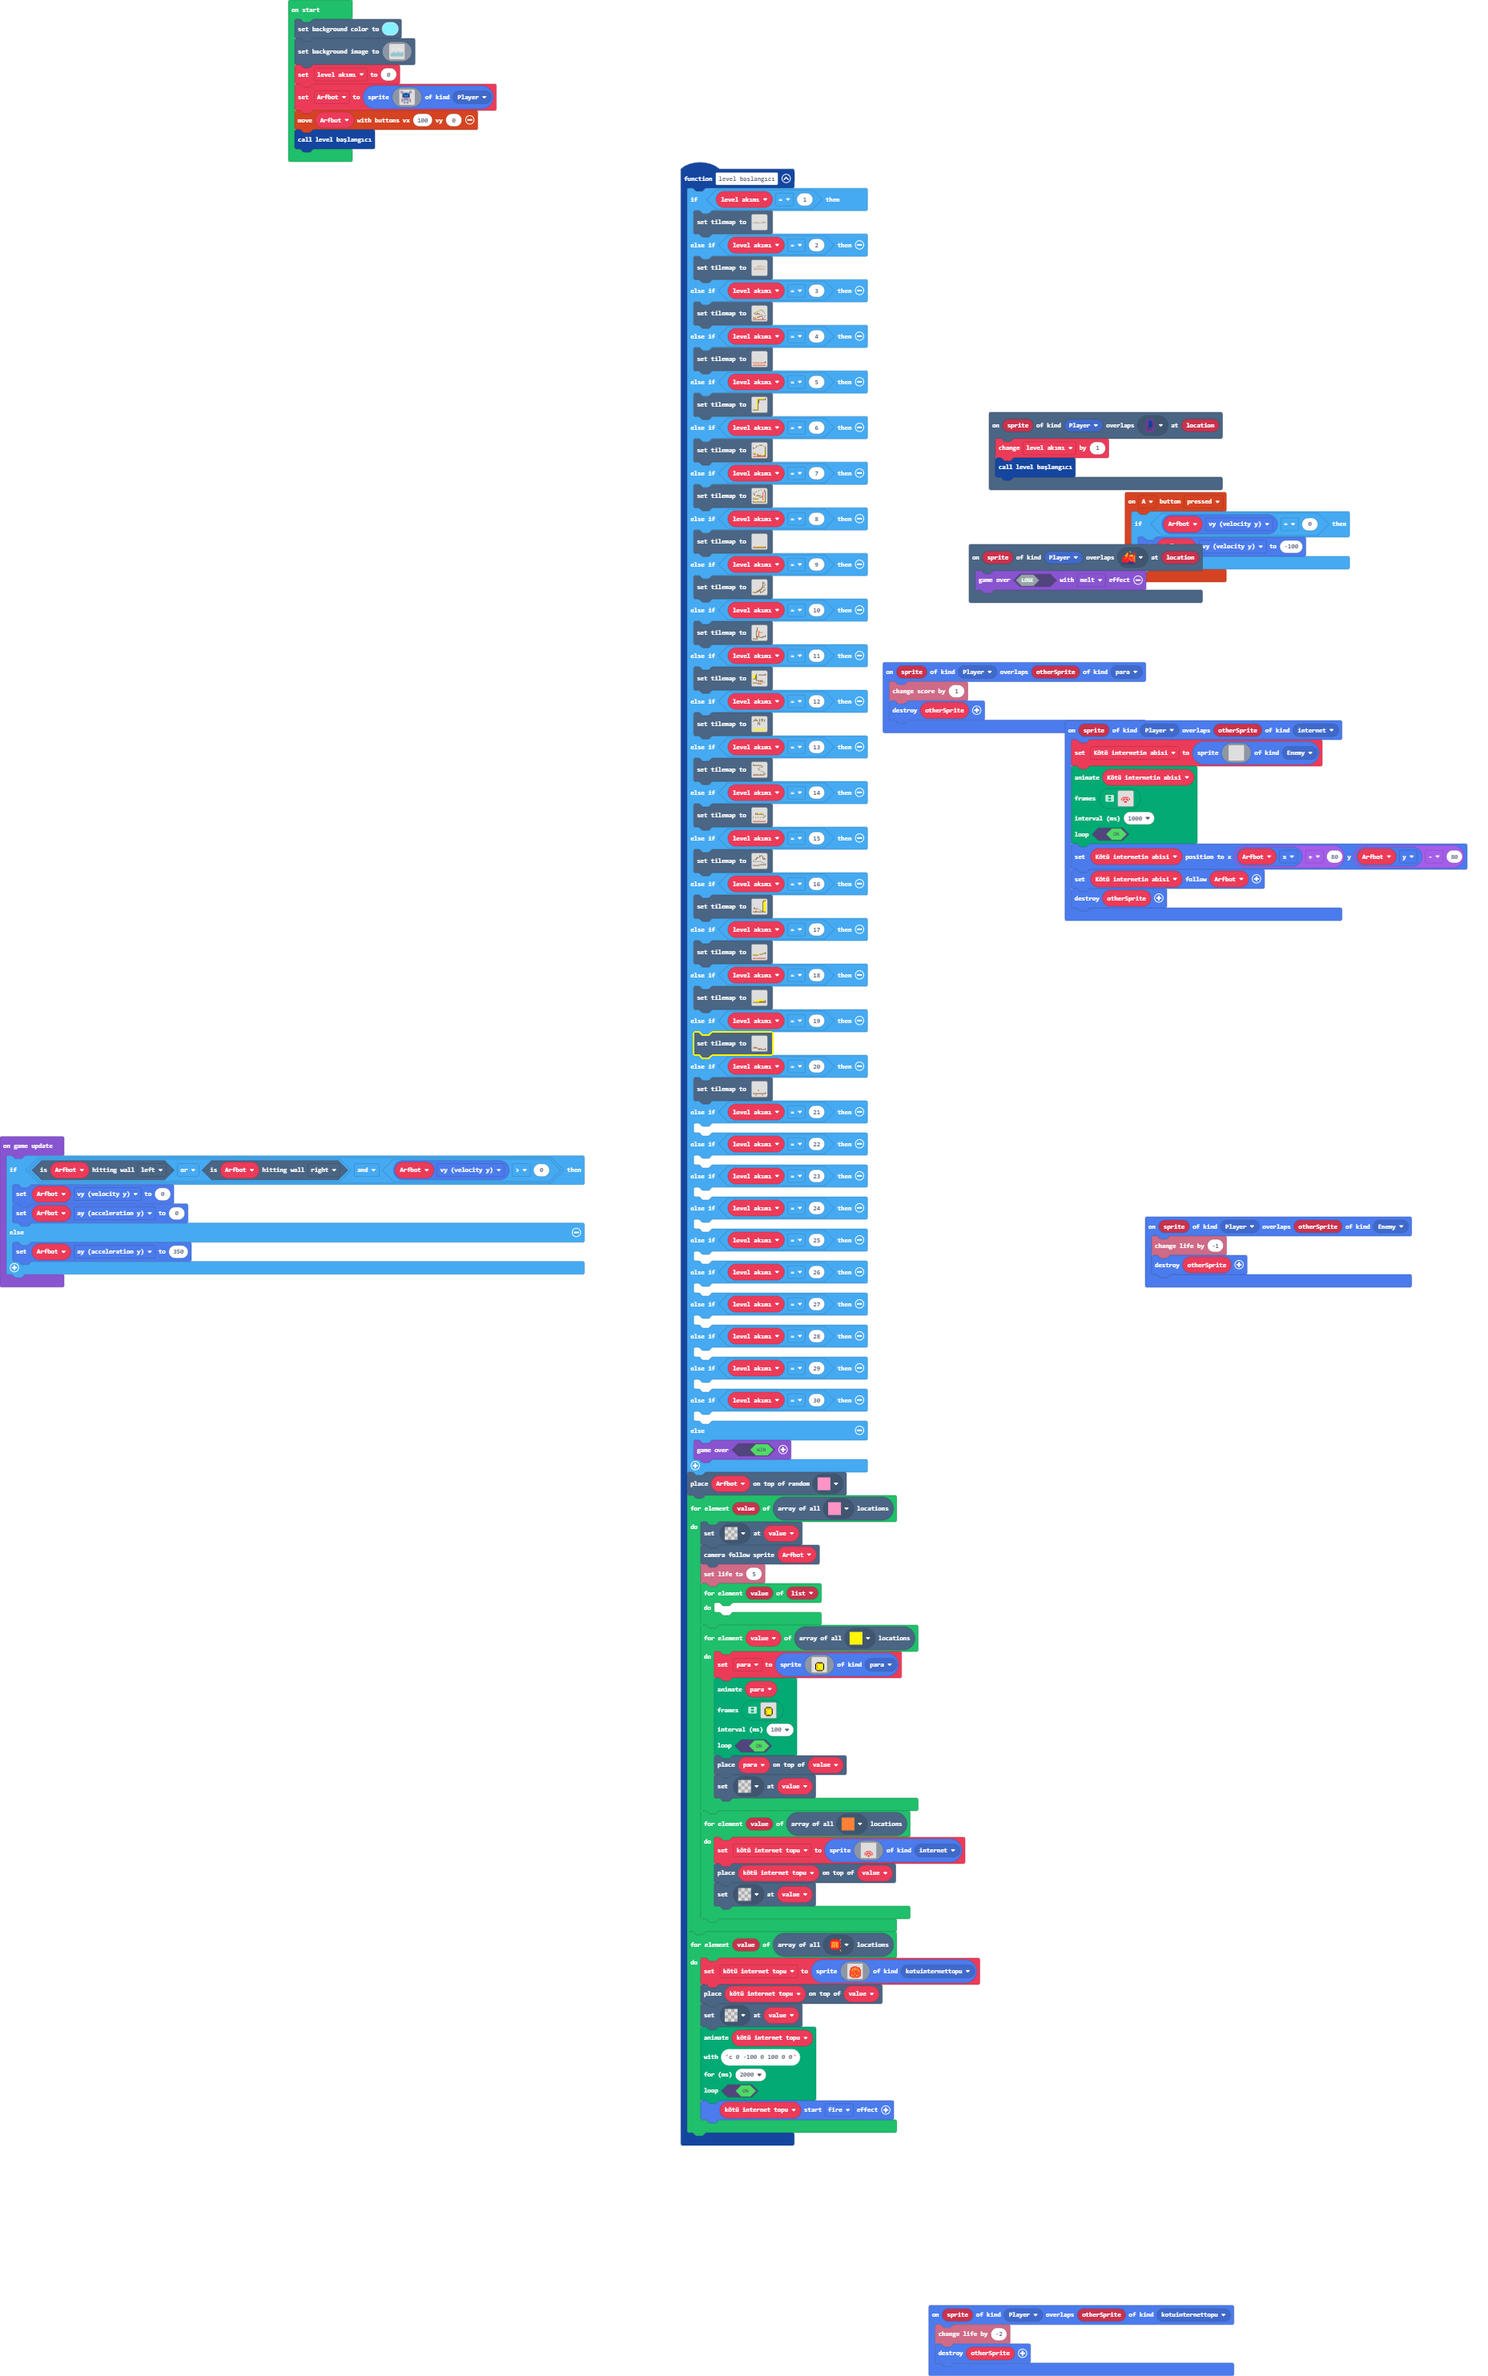
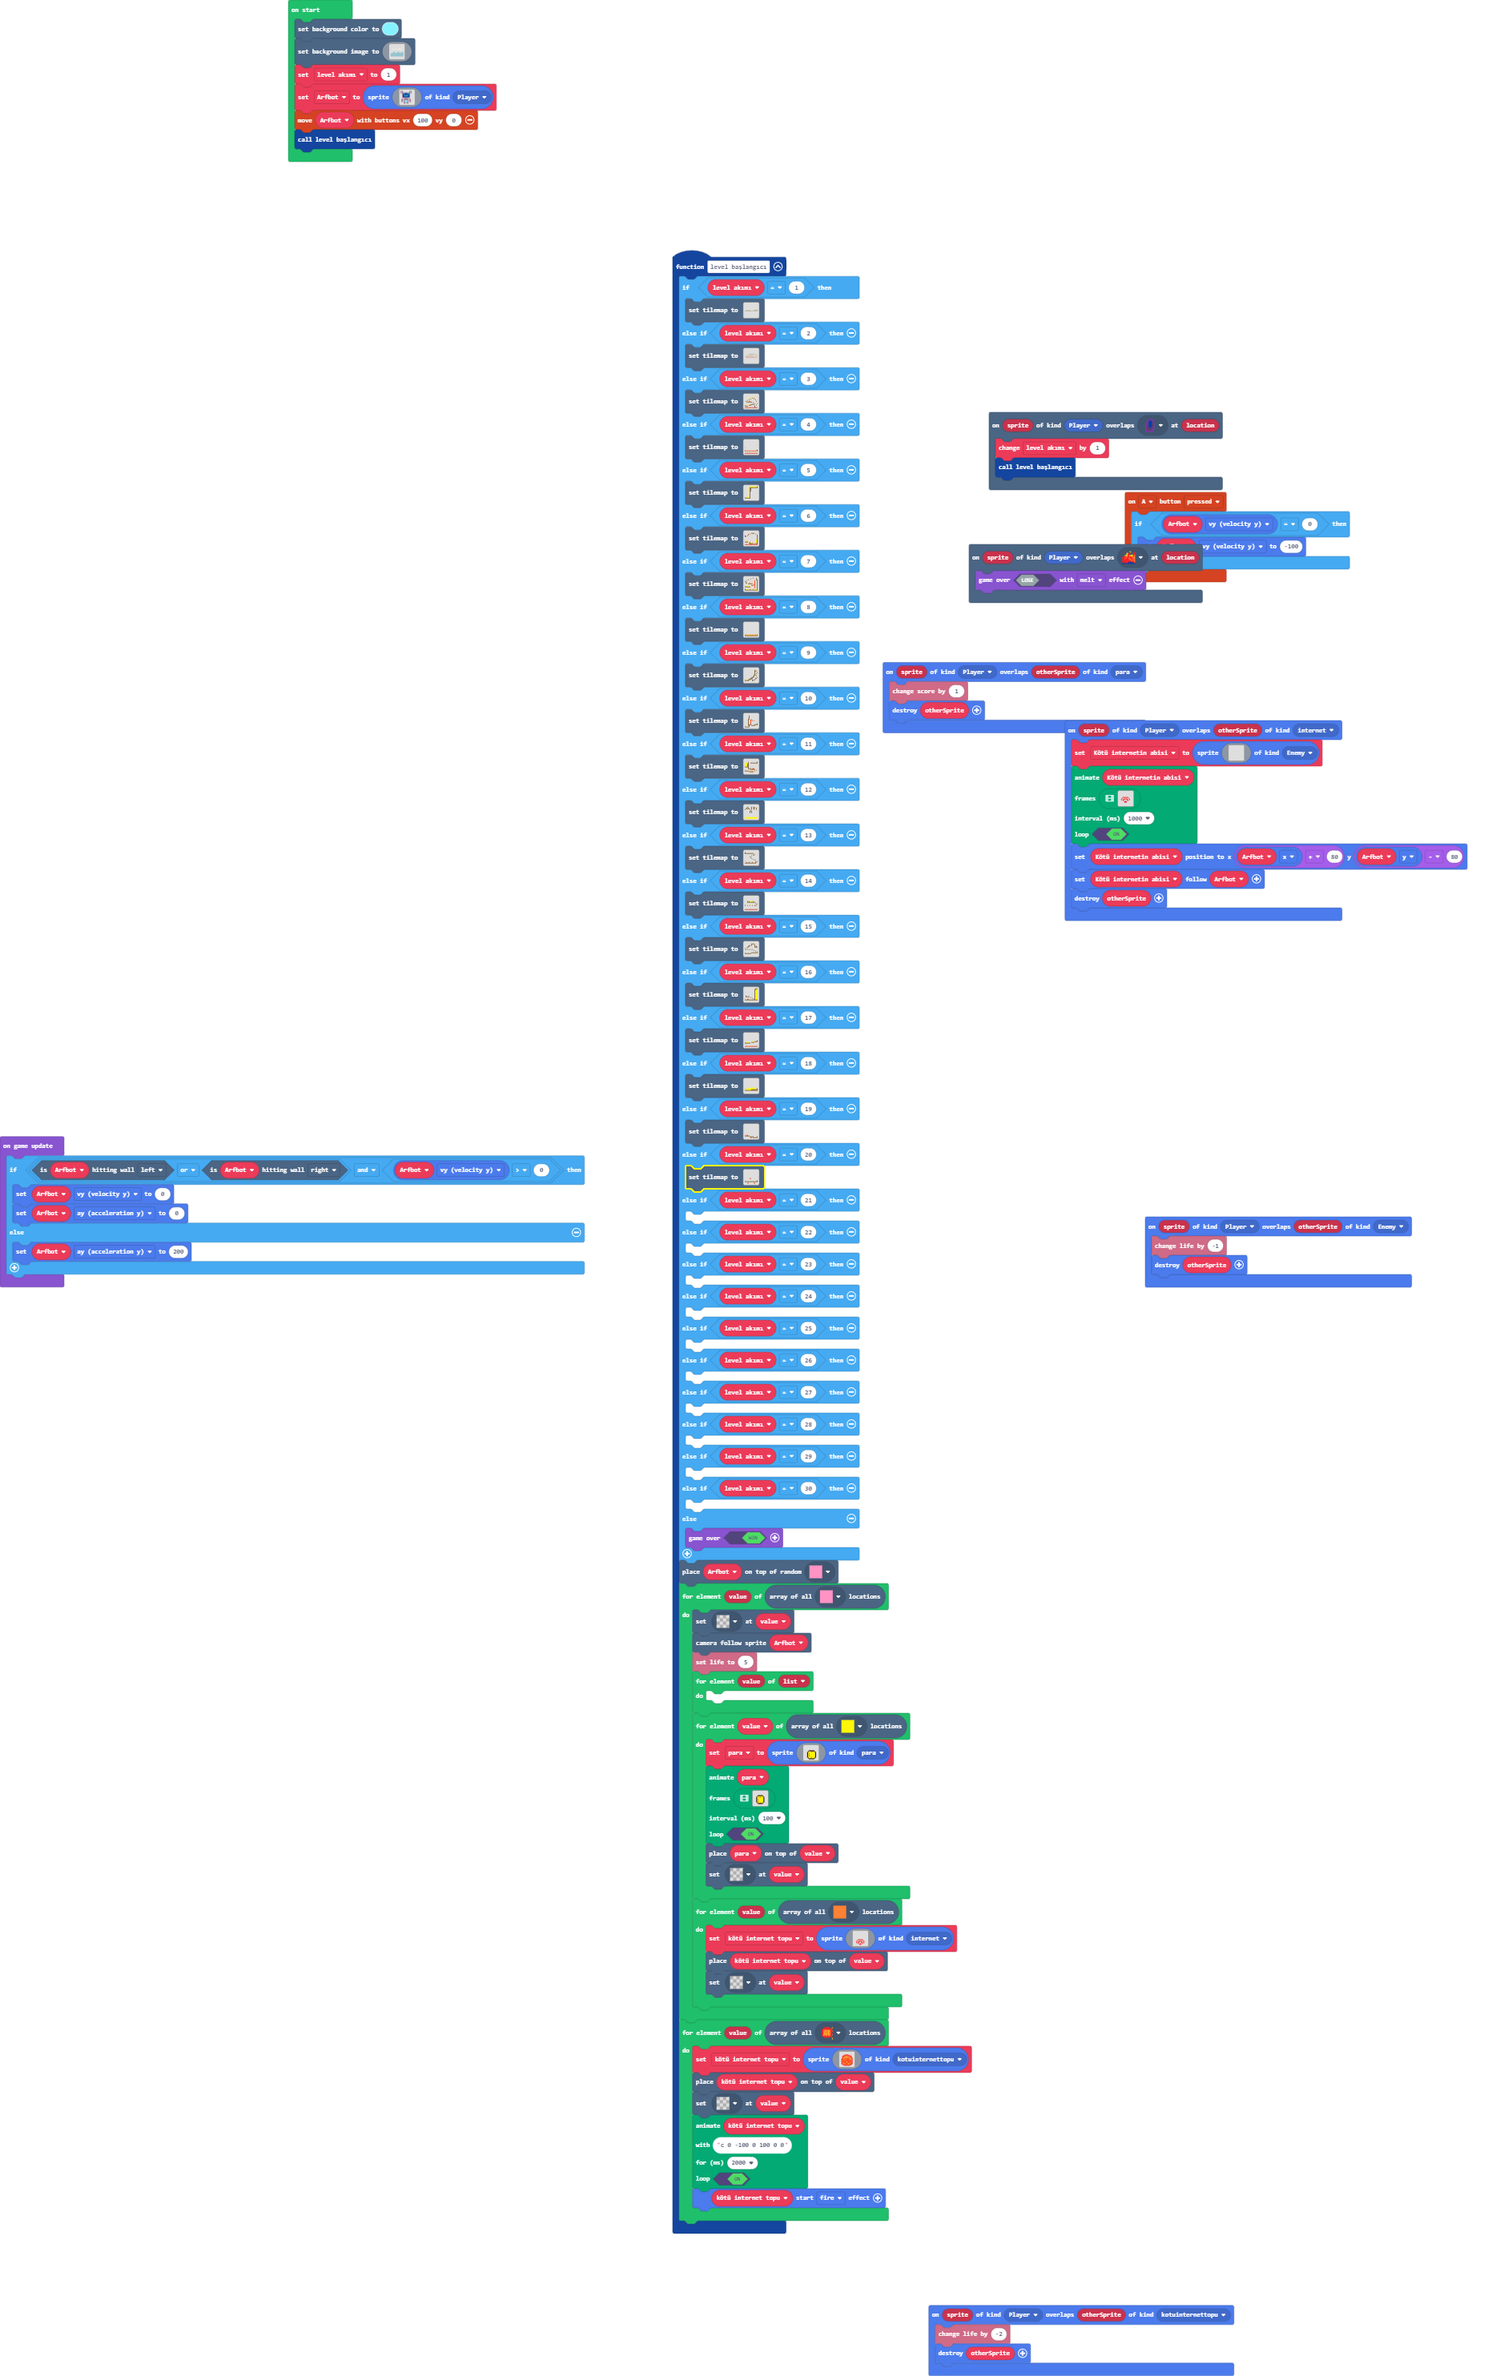
Update main.blocks, main.ts, tilemap.g.jres, tilemap.g.ts

Changed region(s): [[0.437, 0.062, 0.6555, 0.9609]]

diff --git a/tilemap.g.ts b/tilemap.g.ts
@@ -1099,6 +1099,196 @@ namespace myTiles {
 . . . . . . . . . . . . . . . . 
 . . . . . . . . . . . . . . . . 
 `, [myTiles.transparency16,myTiles.tile1,myTiles.tile5,myTiles.tile10,myTiles.tile11], TileScale.Sixteen);
+            case "level53":
+            case "level53":return tiles.createTilemap(hex`1000100000000000000000000000000000000000000000000000000000000000000000000000000000000000000000000000000000000000000000000000000000000000000000000000000000000000000000000000000000000000000000000000000000000000000000000000000000000000000000000000000000000000000000000000000000000000000000000000000000000000000000000000000000000000000000000100000000000000000000000000000002020202020202020202020200000000000000000000000000000000000000000000000000000000000000000000000000000000000000000000000000000000000000000000000000000000`, img`
+. . . . . . . . . . . . . . . . 
+. . . . . . . . . . . . . . . . 
+. . . . . . . . . . . . . . . . 
+. . . . . . . . . . . . . . . . 
+. . . . . . . . . . . . . . . . 
+. . . . . . . . . . . . . . . . 
+. . . . . . . . . . . . . . . . 
+. . . . . . . . . . . . . . . . 
+. . . . . . . . . . . . . . . . 
+. . . . . . . . . . . . . . . . 
+. . . . . . . . . . . . . . . . 
+. . . . . . . . . . . . . . . . 
+. . . . . . . . . . . . . . . . 
+. . . . . . . . . . . . . . . . 
+. . . . . . . . . . . . . . . . 
+. . . . . . . . . . . . . . . . 
+`, [myTiles.transparency16,myTiles.tile10,sprites.castle.tileGrass2], TileScale.Sixteen);
+            case "level54":
+            case "level54":return tiles.createTilemap(hex`1000100000000000000000000000000000000000000000000000000000000000000000000000000000000000000000000000000000000000000000000000000000000000000000000000000000000000000000000000000000000000000000000000000000000000000000000000000000000000000000000000000000000000000000000000000000000000000000000000000000000000000000000000000000000000000000000000000000000000000000000101010101010100000000000000000000000000000000010101010101010101000000000000000000000000000000000000000000000000000000000000000000000000000000000000000000000000`, img`
+. . . . . . . . . . . . . . . . 
+. . . . . . . . . . . . . . . . 
+. . . . . . . . . . . . . . . . 
+. . . . . . . . . . . . . . . . 
+. . . . . . . . . . . . . . . . 
+. . . . . . . . . . . . . . . . 
+. . . . . . . . . . . . . . . . 
+. . . . . . . . . . . . . . . . 
+. . . . . . . . . . . . . . . . 
+. . . . . . . . . . . . . . . . 
+. . . . . . . . . . . . . . . . 
+. . . . . . . . . . . . . . . . 
+. . . . . . . . . . . . . . . . 
+. . . . . . . . . . . . . . . . 
+. . . . . . . . . . . . . . . . 
+. . . . . . . . . . . . . . . . 
+`, [myTiles.transparency16,myTiles.tile1], TileScale.Sixteen);
+            case "level55":
+            case "level55":return tiles.createTilemap(hex`1000100000000000000000000000000000000000000000000000000000000000000000000000000000000000000000000000000000000000000000000000000000000000000000000000000000000000000000000000000000000000000000000000000000000000000000000000000000000000000000000000000000000000000000000000000000000000010101010100000000000000000000000000000000000000000000000000000000000000000000000000000000000000000000000000000000000000000000000000000000000000000000000000000000000000000000000000000000000000000000000000000000000000000000000000000000000000`, img`
+. . . . . . . . . . . . . . . . 
+. . . . . . . . . . . . . . . . 
+. . . . . . . . . . . . . . . . 
+. . . . . . . . . . . . . . . . 
+. . . . . . . . . . . . . . . . 
+. . . . . . . . . . . . . . . . 
+. . . . . . . . . . . . . . . . 
+. . . . . . . . . . . . . . . . 
+. . . . . . . . . . . . . . . . 
+. . . . . . . . . . . . . . . . 
+. . . . . . . . . . . . . . . . 
+. . . . . . . . . . . . . . . . 
+. . . . . . . . . . . . . . . . 
+. . . . . . . . . . . . . . . . 
+. . . . . . . . . . . . . . . . 
+. . . . . . . . . . . . . . . . 
+`, [myTiles.transparency16,sprites.castle.tilePath1], TileScale.Sixteen);
+            case "level56":
+            case "level56":return tiles.createTilemap(hex`1000100000000000000000000000000000000000000000000000000000000000000000000000000000000000000000000000000000000000000000000000000000000000000000000000000000000000000000000000000000000000000000000000000000000000000000000000000000000000000000000000000000000000000000000000000000000000000000000000000000000000000000000000000000000000000000000000000001010000000000000000000000000000010000000000000000000000000000000000000000000000000000000000000000000000000000000000000000000000000000000000000000000000000000000000000000000000`, img`
+. . . . . . . . . . . . . . . . 
+. . . . . . . . . . . . . . . . 
+. . . . . . . . . . . . . . . . 
+. . . . . . . . . . . . . . . . 
+. . . . . . . . . . . . . . . . 
+. . . . . . . . . . . . . . . . 
+. . . . . . . . . . . . . . . . 
+. . . . . . . . . . . . . . . . 
+. . . . . . . . . . . . . . . . 
+. . . . . . . . . . . . . . . . 
+. . . . . . . . . . . . . . . . 
+. . . . . . . . . . . . . . . . 
+. . . . . . . . . . . . . . . . 
+. . . . . . . . . . . . . . . . 
+. . . . . . . . . . . . . . . . 
+. . . . . . . . . . . . . . . . 
+`, [myTiles.transparency16,sprites.castle.tilePath1], TileScale.Sixteen);
+            case "level57":
+            case "level57":return tiles.createTilemap(hex`1000100000000000000000000000000000000000000000000000000000000000000000000000000000000000000000000000000000000000000000000000000000000000000000000000000000000000000000000000000000000000000000000000000000000000000000000000000000000000000000000000000000000000000000000000000000000000000000000000000000000000000000000000000000000000000000000000000000000000000000000000000000000101010101010101010100000001010100000000000000000000000000000000000000000000000000000000000000000000000000000000000000000000000000000000000000000000`, img`
+. . . . . . . . . . . . . . . . 
+. . . . . . . . . . . . . . . . 
+. . . . . . . . . . . . . . . . 
+. . . . . . . . . . . . . . . . 
+. . . . . . . . . . . . . . . . 
+. . . . . . . . . . . . . . . . 
+. . . . . . . . . . . . . . . . 
+. . . . . . . . . . . . . . . . 
+. . . . . . . . . . . . . . . . 
+. . . . . . . . . . . . . . . . 
+. . . . . . . . . . . . . . . . 
+. . . . . . . . . . . . . . . . 
+. . . . . . . . . . . . . . . . 
+. . . . . . . . . . . . . . . . 
+. . . . . . . . . . . . . . . . 
+. . . . . . . . . . . . . . . . 
+`, [myTiles.transparency16,sprites.castle.tileGrass2], TileScale.Sixteen);
+            case "level58":
+            case "level58":return tiles.createTilemap(hex`1000100000000000000000000000000000000000000000000000000000000000000000000000000000000000000000000000000000000000000000000000000000000000000000000000000000000000000000000000000000000000000000000000000000000000000000000000000000000000000000000000000000000000000000000000000000000000000000000000000000000000000000000000000000000000000000000000000000000000000000000000000000000000000000000000000000000001010000000000000000000000000000000001010101010101010101010000000000000000000000000000000000000000000000000000000000000000`, img`
+. . . . . . . . . . . . . . . . 
+. . . . . . . . . . . . . . . . 
+. . . . . . . . . . . . . . . . 
+. . . . . . . . . . . . . . . . 
+. . . . . . . . . . . . . . . . 
+. . . . . . . . . . . . . . . . 
+. . . . . . . . . . . . . . . . 
+. . . . . . . . . . . . . . . . 
+. . . . . . . . . . . . . . . . 
+. . . . . . . . . . . . . . . . 
+. . . . . . . . . . . . . . . . 
+. . . . . . . . . . . . . . . . 
+. . . . . . . . . . . . . . . . 
+. . . . . . . . . . . . . . . . 
+. . . . . . . . . . . . . . . . 
+. . . . . . . . . . . . . . . . 
+`, [myTiles.transparency16,sprites.castle.tileGrass2], TileScale.Sixteen);
+            case "level59":
+            case "level59":return tiles.createTilemap(hex`1000100000000000000000000000000000000000000000000000000000000000000000000000000000000000000000000000000000000000000000000000000000000000000000000000000000000000000000000000000000000000000000000000000000000000000000000000000000000000000000000000000000000000000000000000000000000000000000000000000000000000000000000000000000000000000000000000000000000000000000000000000000000000000000000000000000000000000000000000000000000000000000010101010101010101010101000000000000000000000000000000000000000000000000000000000000000000`, img`
+. . . . . . . . . . . . . . . . 
+. . . . . . . . . . . . . . . . 
+. . . . . . . . . . . . . . . . 
+. . . . . . . . . . . . . . . . 
+. . . . . . . . . . . . . . . . 
+. . . . . . . . . . . . . . . . 
+. . . . . . . . . . . . . . . . 
+. . . . . . . . . . . . . . . . 
+. . . . . . . . . . . . . . . . 
+. . . . . . . . . . . . . . . . 
+. . . . . . . . . . . . . . . . 
+. . . . . . . . . . . . . . . . 
+. . . . . . . . . . . . . . . . 
+. . . . . . . . . . . . . . . . 
+. . . . . . . . . . . . . . . . 
+. . . . . . . . . . . . . . . . 
+`, [myTiles.transparency16,sprites.castle.tileGrass1], TileScale.Sixteen);
+            case "level60":
+            case "level60":return tiles.createTilemap(hex`1000100000000000000000000000000000000000000000000000000000000000000000000000000000000000000000000000000000000000000000000000000000000000000000000000000000000000000000000000000000000000000000000000000000000000000000000000000000000000000000000000000000000000000000000000000000000000000000000000000000000000000000000000000000000000000000000000000000000000000000000001010101010101010101010101010100000000000000000000000000000000000000000000000000000000000000000000000000000000000000000000000000000000000000000000000000000000`, img`
+. . . . . . . . . . . . . . . . 
+. . . . . . . . . . . . . . . . 
+. . . . . . . . . . . . . . . . 
+. . . . . . . . . . . . . . . . 
+. . . . . . . . . . . . . . . . 
+. . . . . . . . . . . . . . . . 
+. . . . . . . . . . . . . . . . 
+. . . . . . . . . . . . . . . . 
+. . . . . . . . . . . . . . . . 
+. . . . . . . . . . . . . . . . 
+. . . . . . . . . . . . . . . . 
+. . . . . . . . . . . . . . . . 
+. . . . . . . . . . . . . . . . 
+. . . . . . . . . . . . . . . . 
+. . . . . . . . . . . . . . . . 
+. . . . . . . . . . . . . . . . 
+`, [myTiles.transparency16,sprites.castle.tilePath2], TileScale.Sixteen);
+            case "level61":
+            case "level61":return tiles.createTilemap(hex`1000100000000000000000000000000000000000000000000000000000000000000000000000000000000000000000000000000000000000000000000000000000000000000000000000000000000000000000000000000000000000000000000000000000000000000000000000000000000000000000000000000000000000000000000000000000000000000000000000000000000000000000000000000000000000000000000000000000000000000000000000000000000000000000000000010100000000000000000000000000000000000000000000000000000000000000000000000000000000000000000000000000000000000000000000000000000000`, img`
+. . . . . . . . . . . . . . . . 
+. . . . . . . . . . . . . . . . 
+. . . . . . . . . . . . . . . . 
+. . . . . . . . . . . . . . . . 
+. . . . . . . . . . . . . . . . 
+. . . . . . . . . . . . . . . . 
+. . . . . . . . . . . . . . . . 
+. . . . . . . . . . . . . . . . 
+. . . . . . . . . . . . . . . . 
+. . . . . . . . . . . . . . . . 
+. . . . . . . . . . . . . . . . 
+. . . . . . . . . . . . . . . . 
+. . . . . . . . . . . . . . . . 
+. . . . . . . . . . . . . . . . 
+. . . . . . . . . . . . . . . . 
+. . . . . . . . . . . . . . . . 
+`, [myTiles.transparency16,sprites.castle.tileGrass2], TileScale.Sixteen);
+            case "level62":
+            case "level62":return tiles.createTilemap(hex`1000100000000000000000000000000000000000000000000000000000000000000000000000000000000000000000000000000000000000000000000000000000000000000000000000000000000000000000000000000000000000000000000000000000000000000000000000000000000000000000000000000000000000000000000000000000000000000000000000000000000000000000000000000000000000000000000000000000000000000000000001010101000000000000000000000000000000000101010000000000000000000000000000000000000000000000000000000000000000000000000000000000000000000000000000000000000000`, img`
+. . . . . . . . . . . . . . . . 
+. . . . . . . . . . . . . . . . 
+. . . . . . . . . . . . . . . . 
+. . . . . . . . . . . . . . . . 
+. . . . . . . . . . . . . . . . 
+. . . . . . . . . . . . . . . . 
+. . . . . . . . . . . . . . . . 
+. . . . . . . . . . . . . . . . 
+. . . . . . . . . . . . . . . . 
+. . . . . . . . . . . . . . . . 
+. . . . . . . . . . . . . . . . 
+. . . . . . . . . . . . . . . . 
+. . . . . . . . . . . . . . . . 
+. . . . . . . . . . . . . . . . 
+. . . . . . . . . . . . . . . . 
+. . . . . . . . . . . . . . . . 
+`, [myTiles.transparency16,sprites.castle.tileGrass2], TileScale.Sixteen);
         }
         return null;
     })

diff --git a/main.ts b/main.ts
@@ -630,7 +630,7 @@ scene.setBackgroundImage(img`
     6666666666666666666666666666666666666666666666666666666666666666666666666666666666666666666666666666666666666666666666666666666666666666666666666666666666666666
     6666666666666666666666666666666666666666666666666666666666666666666666666666666666666666666666666666666666666666666666666666666666666666666666666666666666666666
     `)
-level_akımı = 0
+level_akımı = 1
 Arfbot = sprites.create(img`
     b b b . . . . . . . . b b b . . 
     b 9 b . . . . . . . . b 9 b . . 
@@ -656,6 +656,6 @@ game.onUpdate(function () {
         Arfbot.vy = 0
         Arfbot.ay = 0
     } else {
-        Arfbot.ay = 350
+        Arfbot.ay = 200
     }
 })
